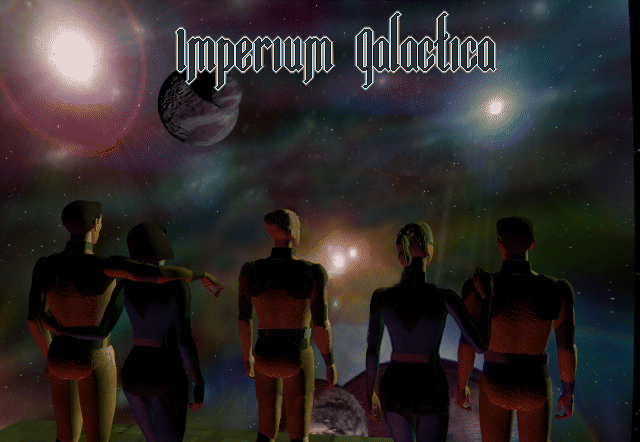
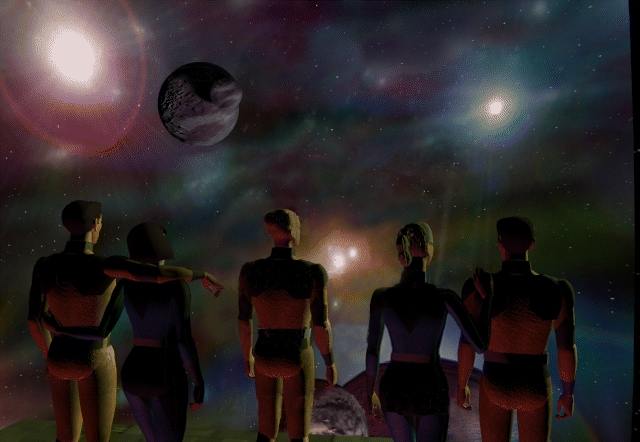
Release 0.94.903

Changed region(s): [[0.25, 0.0294, 0.7812, 0.2353]]

diff --git a/open-ig/src/hu/openig/screen/items/LoadSaveScreen.java b/open-ig/src/hu/openig/screen/items/LoadSaveScreen.java
@@ -1176,7 +1176,6 @@ public class LoadSaveScreen extends ScreenBase {
 
 	@Override
 	public void onResize() {
-		// XXX
 		scaleResize(base);
 		// tabs
 		
@@ -1324,7 +1323,6 @@ public class LoadSaveScreen extends ScreenBase {
 	@Override
 	public void draw(Graphics2D g2) {
 		RenderTools.darkenAround(base, width, height, g2, 0.5f, true);
-		// XXX
 		AffineTransform save0 = scaleDraw(g2, base);
 		
 		if (settingsMode != SettingsPage.LOAD_SAVE) {
@@ -1397,9 +1395,8 @@ public class LoadSaveScreen extends ScreenBase {
 	}
 	@Override
 	public boolean mouse(UIMouse e) {
-		// XXX
 		scaleMouse(e, base);
-		if (e.has(Type.DOWN) && !e.within(base.x, base.y, base.width, base.height)) {
+		if (e.has(Type.DOWN) && !e.within(base.x, base.y, base.width, base.height) && !confirmText.visible()) {
 			doBack();
 		}
 		return super.mouse(e);
@@ -1483,7 +1480,7 @@ public class LoadSaveScreen extends ScreenBase {
 					newSave.difficulty = world().difficulty;
 					newSave.money = player().money;
 					newSave.gameDate = world().time.getTime();
-					newSave.saveName = "-- New --"; // FIXME labels
+					newSave.saveName = LoadSaveScreen.this.get("settings.new_save"); // FIXME labels
 					
 					flist.add(0, newSave);
 					list.selected = newSave;
@@ -1625,8 +1622,7 @@ public class LoadSaveScreen extends ScreenBase {
 	}
 	/** Go back to main menu. */
 	void doMainMenu() {
-		// FIXME labels
-		showConfirm("Do you really want to quit?", new Action0() {
+		showConfirm(get("settings.confirm_quit"), new Action0() {
 			@Override
 			public void invoke() {
 				commons.control().hideOptions();
@@ -1677,8 +1673,7 @@ public class LoadSaveScreen extends ScreenBase {
 			commons.control().save(saveText, SaveMode.MANUAL);
 			doBack();
 		} else {
-			// FIXME labels
-			showConfirm("Overwrite save?", new Action0() {
+			showConfirm(get("settings.confirm_overwrite"), new Action0() {
 				@Override
 				public void invoke() {
 					fi.file.delete();

diff --git a/open-ig/src/hu/openig/screen/items/MainScreen.java b/open-ig/src/hu/openig/screen/items/MainScreen.java
@@ -233,13 +233,14 @@ public class MainScreen extends ScreenBase {
 		}
 
 		g2.drawImage(background, 0, 0, null);
-	
-		int w0 = commons.text().getTextWidth(14, "Open");
-		g2.setColor(new Color(0, 0, 0, 128));
-		g2.fillRect(118, 18, w0 + 4, 20);
-		commons.text().paintTo(g2, 121, 21, 14, 0xFF000000, "Open");
-		commons.text().paintTo(g2, 120, 20, 14, 0xFFFFFF00, "Open");
-		
+
+		RenderTools.setInterpolation(g2, true);
+		BufferedImage tli = commons.background().openigTextLogo;
+		int tliw = tli.getWidth() * 3 / 4;
+		int tlih = tli.getHeight() * 3 / 4;
+		int tlw = (w - tliw) / 2;
+		g2.drawImage(tli, tlw, 8, tliw, tlih, null);
+		RenderTools.setInterpolation(g2, false);
 		
 		int vx = 10;
 		int vy = 428;

diff --git a/open-ig/src/hu/openig/gfx/BackgroundGFX.java b/open-ig/src/hu/openig/gfx/BackgroundGFX.java
@@ -35,6 +35,9 @@ public class BackgroundGFX {
 	/** The gameover image. */
 	@Img(name = "gameover")
 	public BufferedImage gameover;
+	/** The Open Imperium Galactica text logo. */
+	@Img(name = "open-ig-textlogo")
+	public BufferedImage openigTextLogo;
 	/**
 	 * Load resources.
 	 * @param rl the resource locator
